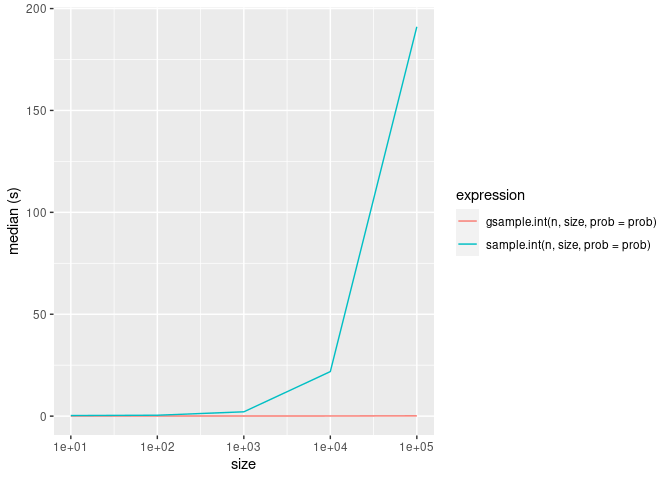
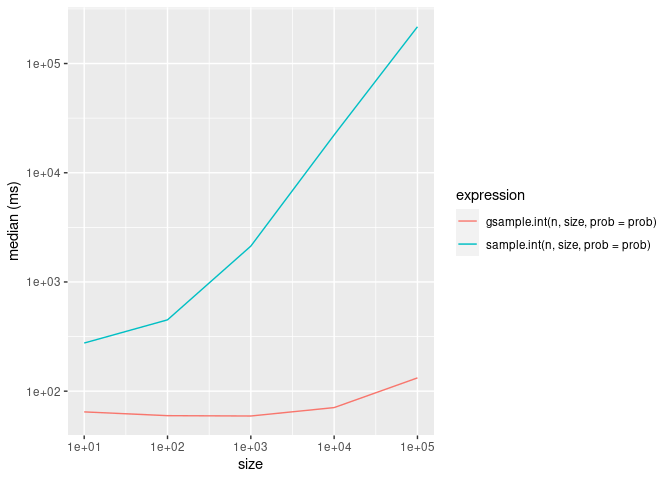
Put y-axis in log scale

diff --git a/README.md b/README.md
@@ -30,12 +30,12 @@ n <- 1e3
 size <- 1e2
 prob <- exp(rnorm(n, sd = 3))
 gsample.int(n, size, prob = prob)
-#>   [1] 775 983 452  60 423 738  45 798 707 174 839 192 178 470 898 678 348 777
-#>  [19]  37 362 267 569 720 367 614 460  26 598 954 405 892 841 142 970 976 424
-#>  [37] 309 339 813 533 528 953 155 780  31 113 929 343 805 429 499 676 104  93
-#>  [55] 582 493 211 984 889 463 504 808 264 670 552  57 855 333 712 683 941 746
-#>  [73] 644 467 318 287  98 957 291 380 904 868 727 474 483 496  83 835 769  48
-#>  [91] 556 469 512 480 886 748 665 409 326 755
+#>   [1] 236   4 847 991 188 801 410 181 593 470 293 411 509 253 885 423  59 120
+#>  [19] 880 301 894 883 784 768 546 955 778 529 899 307 629 176 131 468 206 865
+#>  [37] 609 871 605 997  56 460 404 590 391 772 575 412 421 140 896 510  31 222
+#>  [55] 437 488 755 258 480 875 160 982  54 399 713 731 432 543 734 505 388 380
+#>  [73] 804 430  93 915 492 187 334 630 877 339 567 262 939 839 456 306 621 481
+#>  [91] 197 716 382 597 859 727 745 365 162 159
 ```
 
 ``` r
@@ -43,7 +43,7 @@ x <- letters
 size <- 10
 prob <- exp(rnorm(length(letters), sd = 3))
 gsample(x, size, prob = prob)
-#>  [1] "g" "p" "u" "i" "b" "v" "c" "h" "y" "s"
+#>  [1] "g" "k" "w" "n" "y" "m" "u" "h" "t" "b"
 ```
 
 Here are some simple benchmark comparisons with `base::sample()`:
@@ -67,10 +67,10 @@ bm <- lapply(10 ^ (1:5), function(size) {
     }) 
 
 bind_rows(bm) %>%
-    ggplot(aes(x = size, y = median, colour = expression)) +
+    ggplot(aes(x = size, y = 1e3 * median, colour = expression)) +
         geom_line() +
         scale_x_continuous(trans = "log10") +
-        scale_y_continuous("median (s)")
+        scale_y_continuous("median (ms)", trans = "log10")
 ```
 
 <img src="man/figures/README-unnamed-chunk-4-1.png" width="100%" />
